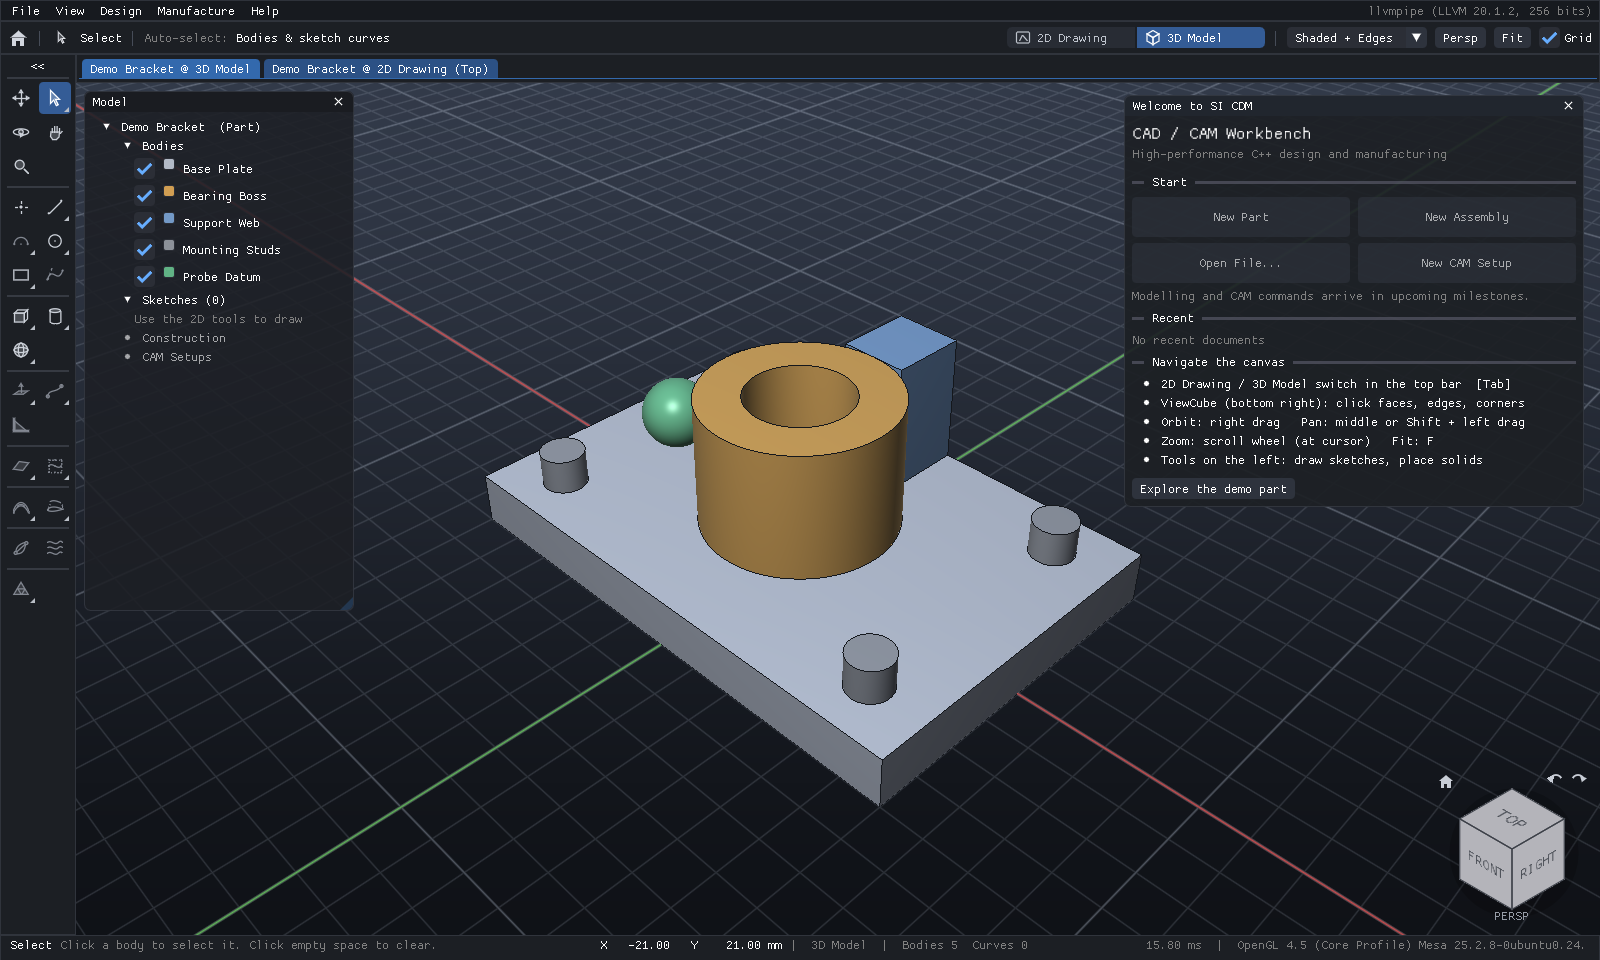
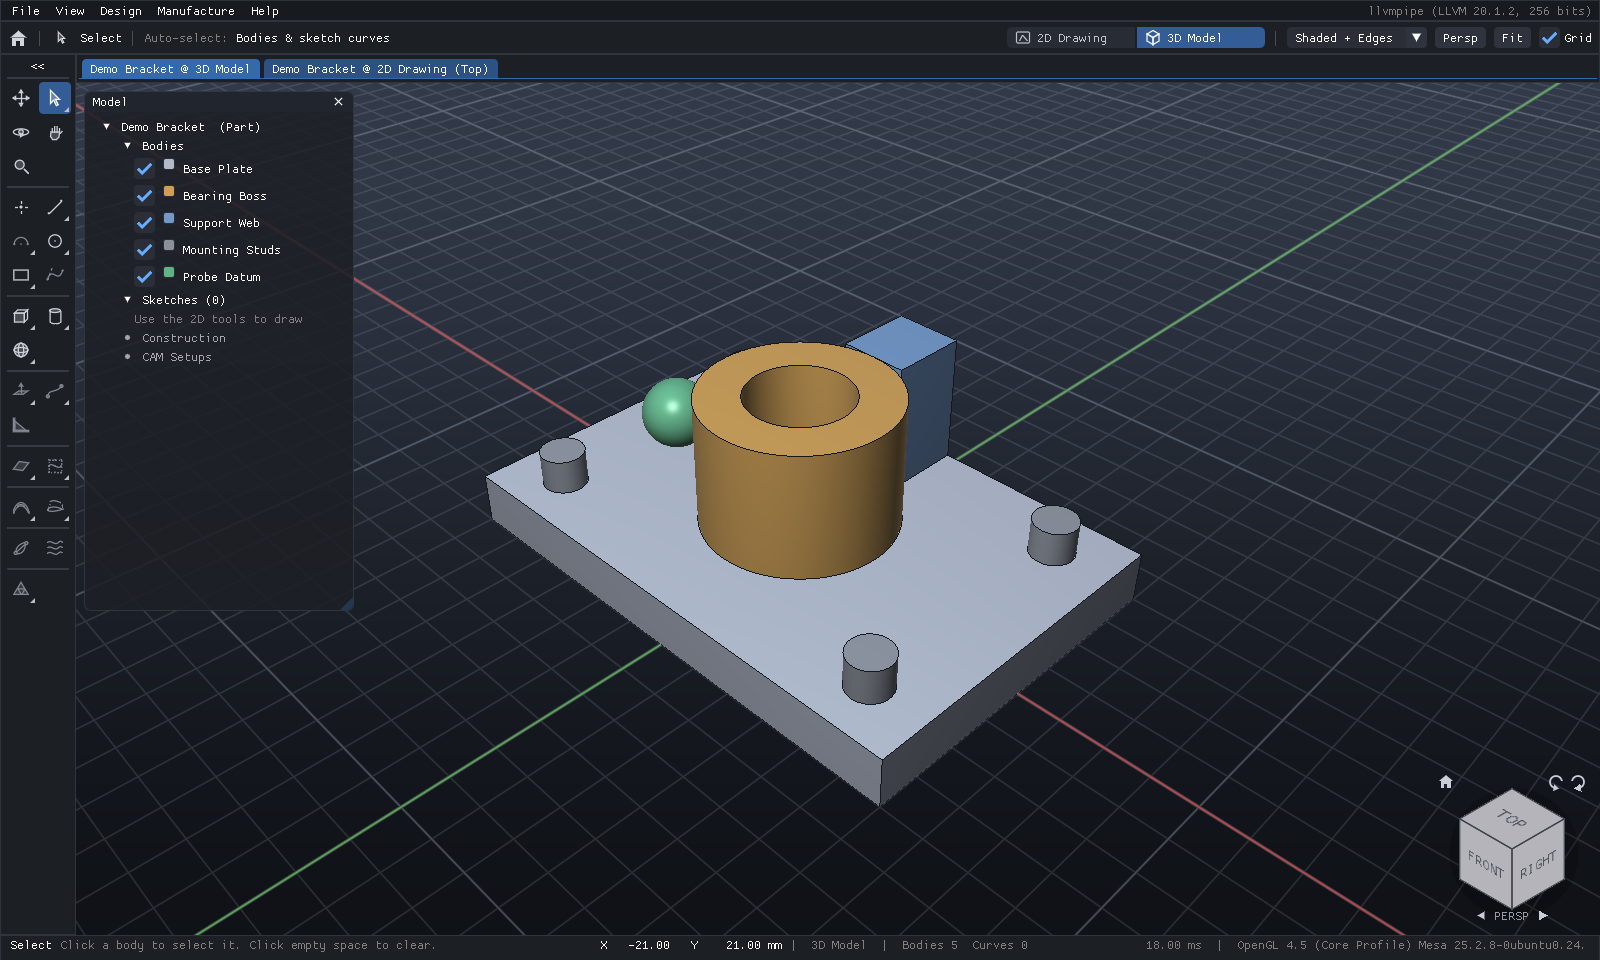
Remove the welcome card
The canvas now opens straight to the model. The options-bar Home button
goes to the home view (3D isometric, fit all) instead of reopening the
card; navigation help remains under Help > Viewport Controls.

Claude-Session: https://claude.ai/code/session_01CbyDM34jeTNtbpLZ1LxuGy

Changed region(s): [[0.6875, 0.0938, 1.0, 0.5]]

diff --git a/src/ui/LandingUI.cpp b/src/ui/LandingUI.cpp
@@ -131,7 +131,6 @@ UiCommands LandingUI::draw(Scene& scene, const OrbitCamera& cam, ViewportSetting
     cmd.resetRoll = cmd.resetRoll || vc.resetRoll;
     cmd.orbitDelta = vc.orbitDelta;
 
-    if (st.showWelcome) drawWelcome(st);
     if (st.showControls) drawControlsWindow(st);
     if (st.showAbout) drawAboutWindow(st);
     return cmd;
@@ -184,7 +183,6 @@ void LandingUI::drawMenuBar(UiCommands& cmd, const OrbitCamera& cam, ViewportSet
         ImGui::Separator();
         ImGui::MenuItem("Grid", "G", &vp.showGrid);
         ImGui::MenuItem("Model Tree", nullptr, &st.showModelTree);
-        ImGui::MenuItem("Welcome", nullptr, &st.showWelcome);
         ImGui::EndMenu();
     }
     if (ImGui::BeginMenu("Design")) {
@@ -231,16 +229,19 @@ void LandingUI::drawOptionsBar(UiCommands& cmd, const OrbitCamera& cam, Viewport
     ImDrawList* dl = ImGui::GetWindowDrawList();
     const float fh = ImGui::GetFrameHeight();
 
-    // Home: back to the welcome card.
+    // Home: isometric 3D view of the whole model.
     {
         ImGui::InvisibleButton("home", {fh, fh});
         const ImVec2 lo = ImGui::GetItemRectMin();
         const ImVec2 c{lo.x + fh * 0.5f, lo.y + fh * 0.5f + 1};
         if (ImGui::IsItemHovered()) {
             dl->AddRectFilled(lo, {lo.x + fh, lo.y + fh}, IM_COL32(58, 64, 76, 255), 4.0f);
-            ImGui::SetTooltip("Home");
+            ImGui::SetTooltip("Home view (3D isometric, fit all)");
         }
-        if (ImGui::IsItemClicked()) st.showWelcome = true;
+        if (ImGui::IsItemClicked()) {
+            cmd.home = true;
+            cmd.mode = ViewMode::Model3D;
+        }
         const ImU32 ic = IM_COL32(210, 214, 222, 255);
         dl->AddTriangleFilled({c.x - 8, c.y - 1}, {c.x, c.y - 8}, {c.x + 8, c.y - 1}, ic);
         dl->AddRectFilled({c.x - 6, c.y - 1}, {c.x + 6, c.y + 7}, ic);
@@ -537,48 +538,6 @@ void LandingUI::drawModelTree(Scene& scene, UiState& st) {
             ImGui::Text("Plane      %s", planeName(c.plane));
             ImGui::Text("Size (mm)  %s", c.measure().c_str());
         }
-    }
-    ImGui::End();
-}
-
-void LandingUI::drawWelcome(UiState& st) {
-    const ImVec2 size{460, 0};
-    ImGui::SetNextWindowPos({m_canvasMax.x - size.x - 16.0f, m_canvasMin.y + 12.0f}, ImGuiCond_Always);
-    ImGui::SetNextWindowSize(size);
-    ImGui::SetNextWindowBgAlpha(0.92f);
-    constexpr ImGuiWindowFlags flags = ImGuiWindowFlags_NoMove | ImGuiWindowFlags_NoResize |
-                                       ImGuiWindowFlags_NoCollapse | ImGuiWindowFlags_NoSavedSettings |
-                                       ImGuiWindowFlags_AlwaysAutoResize;
-    if (ImGui::Begin("Welcome to SI CDM", &st.showWelcome, flags)) {
-        ImGui::SetWindowFontScale(1.35f);
-        ImGui::TextUnformatted("CAD / CAM Workbench");
-        ImGui::SetWindowFontScale(1.0f);
-        ImGui::TextDisabled("High-performance C++ design and manufacturing");
-        ImGui::Spacing();
-        ImGui::SeparatorText("Start");
-
-        const ImVec2 btn{(size.x - ImGui::GetStyle().WindowPadding.x * 2 - ImGui::GetStyle().ItemSpacing.x) * 0.5f, 40};
-        ImGui::BeginDisabled();
-        ImGui::Button("New Part", btn);
-        ImGui::SameLine();
-        ImGui::Button("New Assembly", btn);
-        ImGui::Button("Open File...", btn);
-        ImGui::SameLine();
-        ImGui::Button("New CAM Setup", btn);
-        ImGui::EndDisabled();
-        ImGui::TextDisabled("Modelling and CAM commands arrive in upcoming milestones.");
-
-        ImGui::SeparatorText("Recent");
-        ImGui::TextDisabled("No recent documents");
-
-        ImGui::SeparatorText("Navigate the canvas");
-        ImGui::BulletText("2D Drawing / 3D Model switch in the top bar  [Tab]");
-        ImGui::BulletText("ViewCube (bottom right): click faces, edges, corners");
-        ImGui::BulletText("Orbit: right drag   Pan: middle or Shift + left drag");
-        ImGui::BulletText("Zoom: scroll wheel (at cursor)   Fit: F");
-        ImGui::BulletText("Tools on the left: draw sketches, place solids");
-        ImGui::Spacing();
-        if (ImGui::Button("Explore the demo part")) st.showWelcome = false;
     }
     ImGui::End();
 }

diff --git a/src/ui/LandingUI.hpp b/src/ui/LandingUI.hpp
@@ -18,7 +18,6 @@ enum class ViewMode { Model3D, Drawing2D };
 struct UiState {
     ViewMode mode = ViewMode::Model3D;
     SketchPlane plane = SketchPlane::Top; // active sketch / drawing plane
-    bool showWelcome = true;
     bool showModelTree = true;
     bool showControls = false;
     bool showAbout = false;
@@ -51,7 +50,7 @@ struct UiCommands {
 
 // Workbench chrome around the canvas: menu bar, options bar (tool options and
 // the 2D / 3D window switch), document tabs, rulers, tool rail, model tree,
-// ViewCube, welcome card and status bar.
+// ViewCube and status bar.
 class LandingUI {
 public:
     UiCommands draw(Scene& scene, const OrbitCamera& camera, ViewportSettings& viewport, UiState& state);
@@ -68,7 +67,6 @@ private:
     void drawDocumentTabs(UiCommands& cmd, const UiState& st);
     void drawRulers(const OrbitCamera& cam, const UiState& st);
     void drawModelTree(Scene& scene, UiState& st);
-    void drawWelcome(UiState& st);
     void drawStatusBar(const Scene& scene, const OrbitCamera& cam, const UiState& st);
     void drawControlsWindow(UiState& st);
     void drawAboutWindow(UiState& st);

diff --git a/src/app/Application.cpp b/src/app/Application.cpp
@@ -135,7 +135,6 @@ bool Application::init() {
     m_vp2D.sketchOnTop = true;
 
     if (m_options.start2D) {
-        m_uiState.showWelcome = false;
         setMode(ViewMode::Drawing2D);
     }
     return true;
